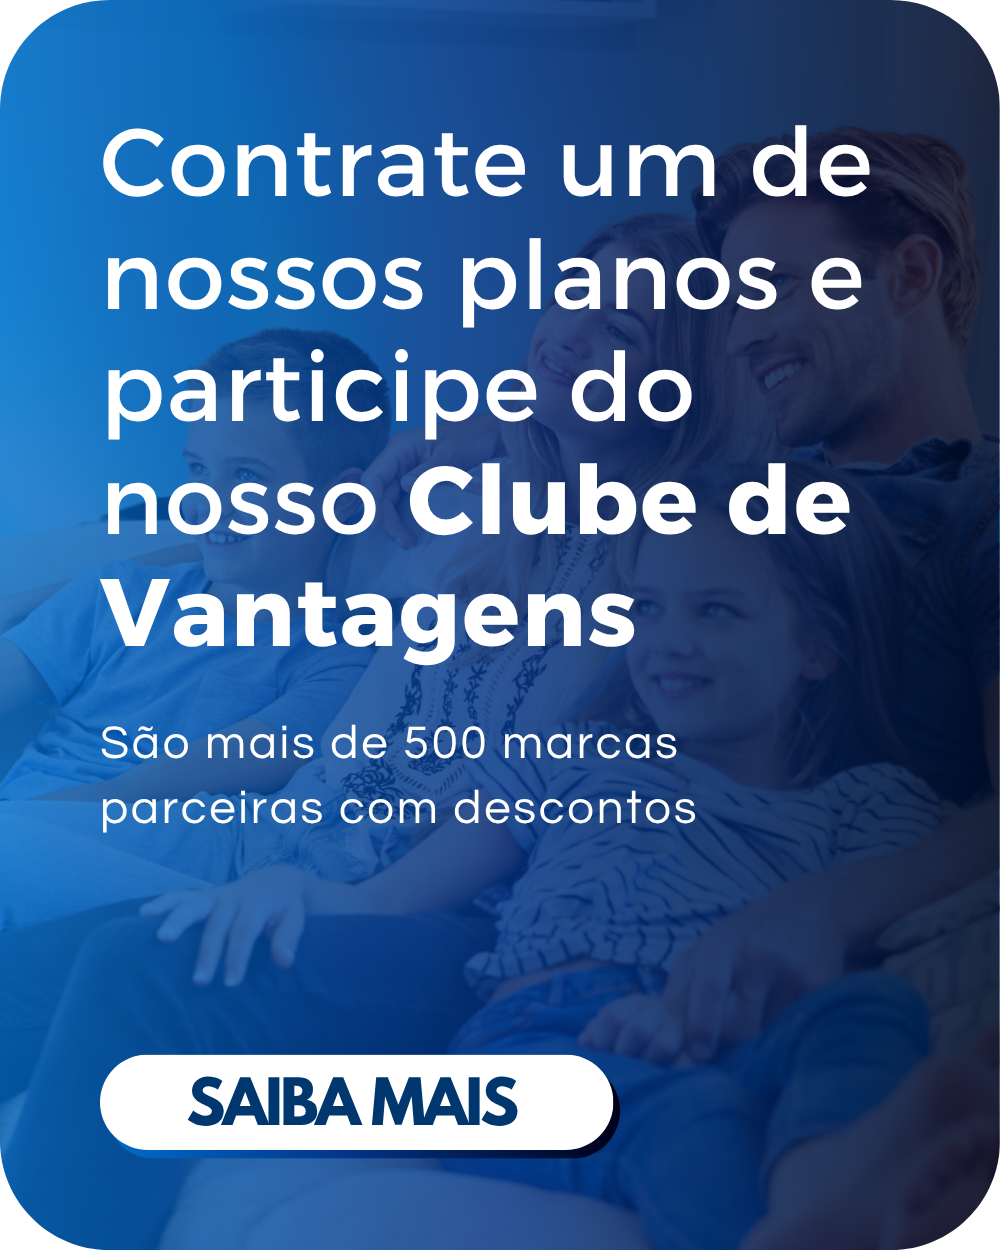
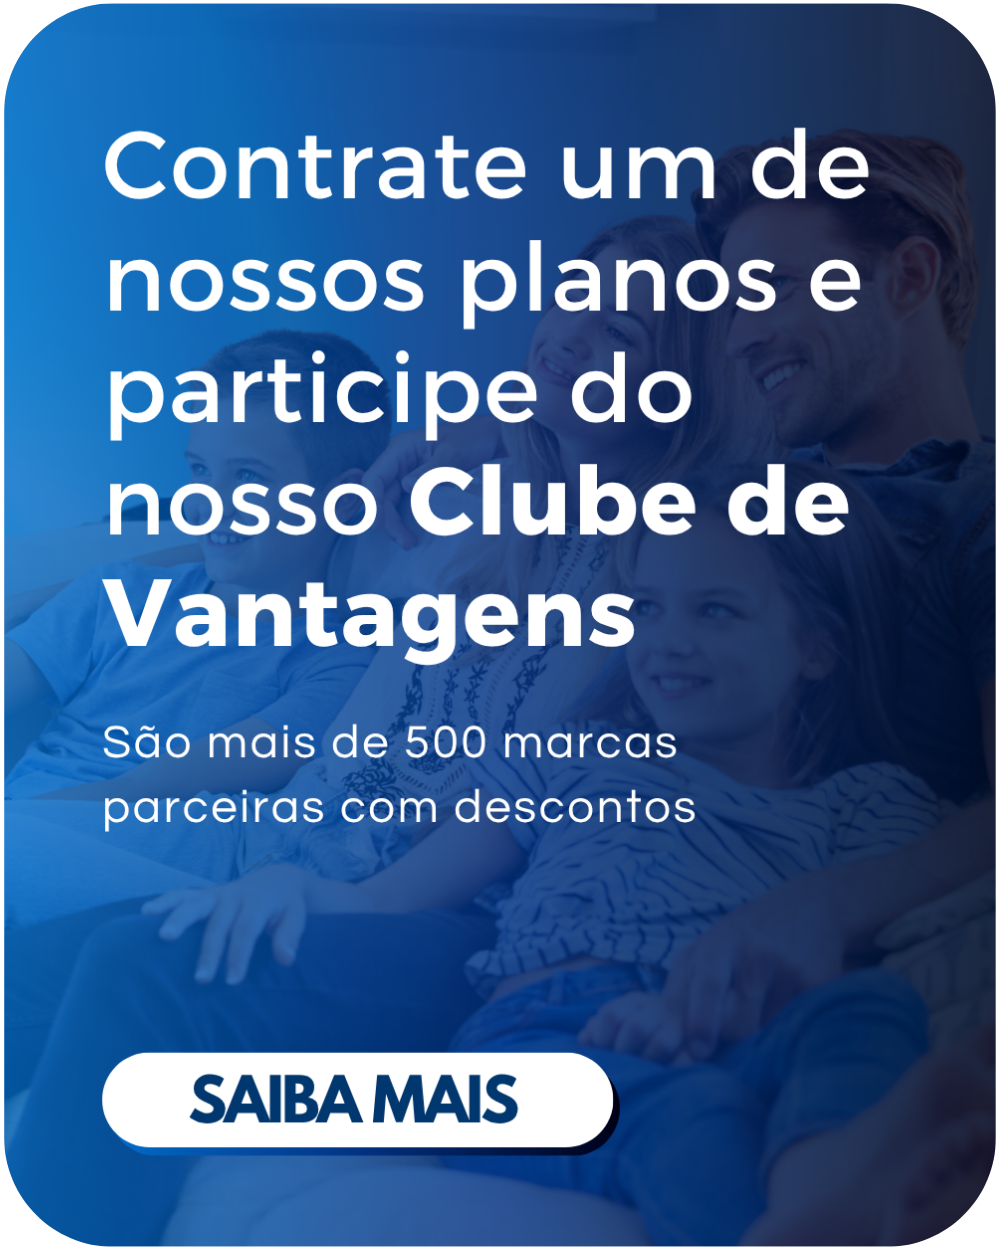
incluindo imagem correta para mobile clube-vantagens

diff --git a/painel/src/app/components/clube-vantagens/clube-vantagens.component.css b/painel/src/app/components/clube-vantagens/clube-vantagens.component.css
@@ -32,17 +32,16 @@
 
 @media (max-width: 794px) {
     .clube-vantagens-section {
-        padding: 0px;
+        padding: 30px;
         height: auto;
         min-height: 50vh;
     }
     
     .vantagens-image {
-        width: 100%;
-        max-width: 100%;
+        max-width: 100vw;
+        width: 400px;
         height: auto;
         object-fit: contain;
-        border-radius: 50px;
     }
 }
 
